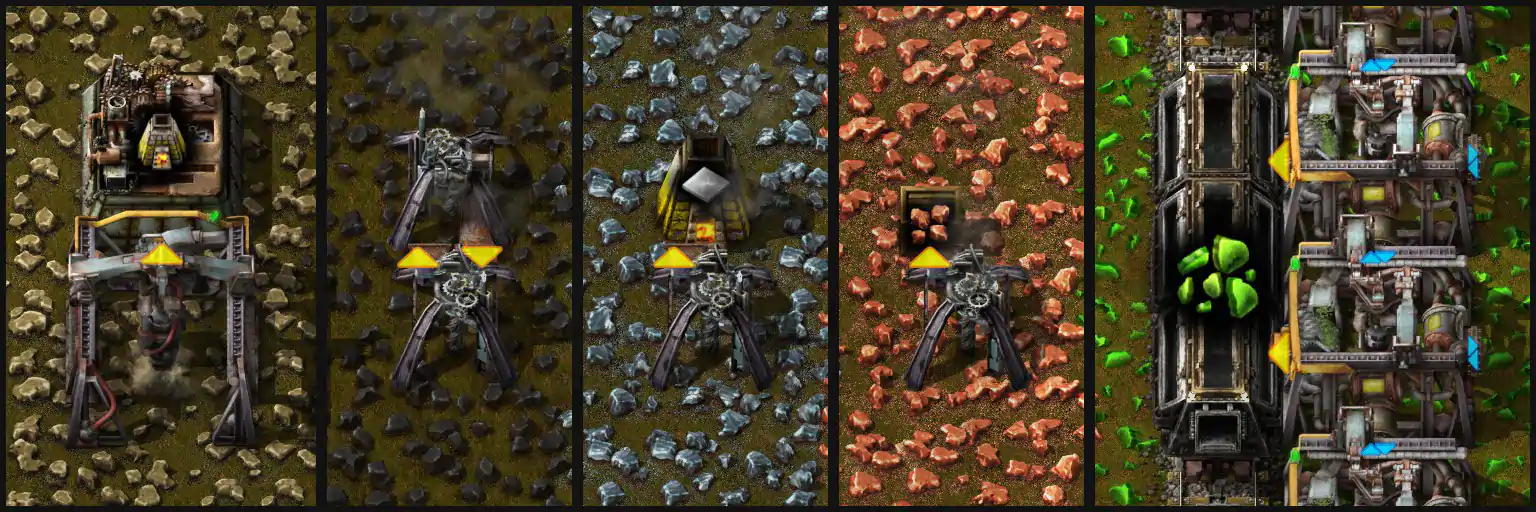
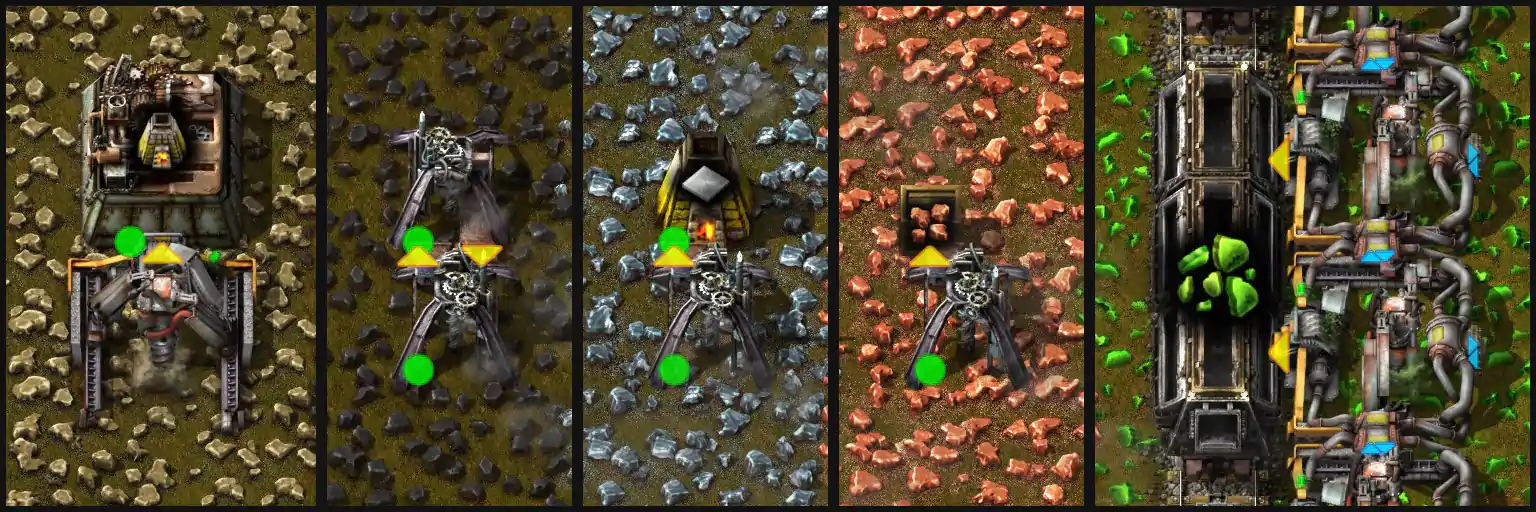
Various Updates (#263)
* Closes #240 Update miner image
* Add ids to headings
* Oil sheet: add refineries per pipeline
* Update Discord link
* Train Colors fix space science, add blueprint
* Move blueprint copier to own component
* Update Factorio version
* Update Font Awesome version

diff --git a/src/app/views/cheat-sheets/balancers/balancers.component.ts b/src/app/views/cheat-sheets/balancers/balancers.component.ts
@@ -1,15 +1,8 @@
 // Angular Imports
 import { Component, OnInit } from '@angular/core';
-import { HttpClient } from '@angular/common/http';
-
-// RXJS
-import { forkJoin } from 'rxjs';
-
-// UI
-import { NgbTooltip } from '@ng-bootstrap/ng-bootstrap';
 
 // Services
-import { DataService, ClipboardService } from 'app/services/index';
+import { DataService } from 'app/services/index';
 
 // Models
 import { Data } from 'app/services/data.model';
@@ -20,8 +13,6 @@ import { BalancerData } from 'app/definitions/Balancers';
 import { APP_SETTINGS } from 'app/shared/app-settings';
 
 const dataFile = 'balancers';
-const tooltip_Default = 'Click to copy Blueprint';
-const tooltip_Copied = 'BP String Copied';
 
 @Component({
     selector: 'app-balancers',
@@ -31,17 +22,10 @@ const tooltip_Copied = 'BP String Copied';
 export class BalancersComponent implements OnInit {
     public cheatSheet: CheatSheet;
     public sheetData: BalancerData;
-
-    /** Tooltip for copying blueprint book */
-    public tooltipMsg = tooltip_Default;
-    /** Holds the blueprint strings for user to copy */
-    public blueprintStrings: string[] = [];
     public APP_SETTINGS = APP_SETTINGS;
 
     constructor(
-        public dataService: DataService,
-        private httpClientService: HttpClient,
-        public clipboardService: ClipboardService,
+        private dataService: DataService,
     ) { }
 
     ngOnInit() {
@@ -49,7 +33,6 @@ export class BalancersComponent implements OnInit {
             (result: Data) => {
                 this.cheatSheet = result.cheatSheet;
                 this.sheetData = result.data;
-                this.processBlueprints();
             },
             error => {
                 console.log(error);
@@ -57,67 +40,4 @@ export class BalancersComponent implements OnInit {
         );
     }
 
-    /**
-     * Get Blueprint strings from the urls
-     * Populate the tooltip array with default string
-     */
-    private async processBlueprints() {
-        this.tooltipMsg = tooltip_Default;
-        const blueprintStreams = [];
-
-        this.sheetData.commonBalancers.forEach(blueprint => {
-            blueprintStreams.push(this.httpClientService.get(blueprint.raw, { responseType: 'text' }));
-        });
-
-        // Common links
-        forkJoin(blueprintStreams).subscribe(
-            (response: string[]) => {
-                this.blueprintStrings = response;
-            },
-            error => {
-                console.log(error);
-            }
-        );
-
-        // await this.testBPMatch();
-    }
-
-    /**
-     * Resets the tooltip message to the default and close after a timeout
-     * @param tooltip NgbTooltip object to operate on
-     */
-    private resetTooltip(tooltip: NgbTooltip): void {
-        setTimeout(() => {
-            this.tooltipMsg = tooltip_Default;
-            tooltip.close();
-            console.log(this.tooltipMsg);
-        }, 2000);
-    }
-
-    /**
-     * Copies Blueprint to clipboard
-     * @param url Link that contains the BP text
-     * @param tooltip NgbTooltip object to operate on
-     */
-    public copyBpString(url: string, tooltip: NgbTooltip): void {
-        this.clipboardService.copyMessageExec(url);
-        this.tooltipMsg = tooltip_Copied;
-        this.resetTooltip(tooltip);
-    }
-
-
-    /** Quick test to compare the order of the bp strings in the array */
-    private testBPMatch() {
-        let i = 0;
-        this.sheetData.commonBalancers.forEach(blueprintBook => {
-            const j = i;
-            this.httpClientService.get(blueprintBook.raw, { responseType: 'text' }).subscribe(
-                (response) => {
-                    if (response === this.blueprintStrings[j]) { console.log(j + ' match'); }
-                    else { console.log(j + ' NOT match'); }
-                }
-            );
-            i++;
-        });
-    }
 }

diff --git a/src/app/shared/blueprint-clipboard/blueprint-clipboard.component.ts b/src/app/shared/blueprint-clipboard/blueprint-clipboard.component.ts
@@ -1,0 +1,79 @@
+// Angular Imports
+import { Component, OnInit, Input } from '@angular/core';
+import { HttpClient } from '@angular/common/http';
+
+// UI
+import { NgbTooltip } from '@ng-bootstrap/ng-bootstrap';
+
+// Services
+import { ClipboardService } from 'app/services/index';
+
+const tooltip_Default = 'Click to copy Blueprint';
+const tooltip_Copied = 'BP String Copied';
+@Component({
+    selector: 'app-blueprint-clipboard',
+    templateUrl: './blueprint-clipboard.component.html',
+    // styleUrls: ['./blueprint-clipboard.component.scss']
+})
+export class BlueprintClipboardComponent {
+    @Input()
+    public set url(url: string) {
+        if (url) {
+            this._url = url;
+            this.processBlueprint();
+        }
+    }
+    public get url(): string { return this._url; }
+    private _url = '';
+
+    /** Tooltip for copying blueprint book */
+    public tooltipMsg = tooltip_Default;
+    /** Holds the blueprint strings for user to copy */
+    public blueprintString: string;
+
+    constructor(
+        private httpClientService: HttpClient,
+        public clipboardService: ClipboardService,
+    ) { }
+
+    /**
+     * Get Blueprint string from the url
+     * Populate the tooltip array with default string
+     */
+    private async processBlueprint() {
+        this.tooltipMsg = tooltip_Default;
+        const blueprintStreams = [];
+        if (!this.url) { throw Error('Empty url'); }
+        this.httpClientService.get(this.url, { responseType: 'text' }).subscribe(
+            (response: string) => {
+                this.blueprintString = response;
+            },
+            error => {
+                console.log(error);
+            }
+        );
+    }
+
+    /**
+     * Resets the tooltip message to the default and close after a timeout
+     * @param tooltip NgbTooltip object to operate on
+     */
+    private resetTooltip(tooltip: NgbTooltip): void {
+        setTimeout(() => {
+            this.tooltipMsg = tooltip_Default;
+            tooltip.close();
+            console.log(this.tooltipMsg);
+        }, 2000);
+    }
+
+    /**
+     * Copies Blueprint to clipboard
+     * @param url Link that contains the BP text
+     * @param tooltip NgbTooltip object to operate on
+     */
+    public copyBpString(blueprintString: string, tooltip: NgbTooltip): void {
+        this.clipboardService.copyMessageExec(blueprintString);
+        this.tooltipMsg = tooltip_Copied;
+        this.resetTooltip(tooltip);
+    }
+}

diff --git a/src/app/views/cheat-sheets/oil-refining/oil-refining.component.html b/src/app/views/cheat-sheets/oil-refining/oil-refining.component.html
@@ -67,8 +67,23 @@
     </p>
     <p>
         This <a href="https://www.youtube.com/watch?v=wbscDTocZBk">Video</a>
-        for 0.16 version that explains the calculations in detail.
+        for 0.16 version that explains the setup and calculations in detail.
         Ratios changed but the concept and build style are still relevant.
+    </p>
+
+    <p>
+
+        You can supply
+        <a href="https://kirkmcdonald.github.io/calc.html#data=0-17-60&rate=s&min=4&items=petroleum-gas:f:106&modules=advanced-oil-processing:;null:10,heavy-oil-cracking:;null:8,light-oil-cracking:;null:8" target="_blank" rel="noopener">
+            ~106 refineries
+        </a> + respective cracking from 1 pipeline at
+        <a href="#fluid-flow-and-pipe-length">1200 oil/s</a>.
+        <br>
+        You can supply
+        <a href="https://kirkmcdonald.github.io/calc.html#zip=fcpLCsMgEADQ27jKgIkhBcscZtCpkfrDMYHcvtDsuii85fM0CDXMD9i06jQYReVYcFVxcBZsPHpNfGQIJPZlF6Ny9UdiQfInFcceakzQenUsEkuwzdyeYuyip53pvL7HdXLv3zFvU4phH//GBw==" target="_blank" rel="noopener">
+            ~23 moduled refineries
+        </a> + respective cracking from 1 pipeline at
+        <a href="#fluid-flow-and-pipe-length">1200 oil/s</a>.
     </p>
 
     <div class="row align-items-center">
@@ -206,13 +221,13 @@
             spreadsheet for Factorio v0.15
         </a> from Reddit; but
         <a href="https://docs.google.com/spreadsheets/d/1AVGjAeokJ6_GFIZqEacsyCxCRzgM1s0bOTwmPn3Ldxo/edit?usp=sharing" target="_blank" rel="noopener">
-            modified to use v0.17
+            modified to use v{{APP_SETTINGS.data_version}}
         </a>
         recipe data with 1.3 productivity and
         5.55 craft speed for Refineries (10 beacons) and
         5 craft speed for Chemical Plants (8 beacons).
         <br>
-        Caution: If you use the original spreadsheet as is, it will not produce correct results for version 0.17.
+        Caution: If you use the original spreadsheet as is, it will not produce correct results for version v{{APP_SETTINGS.data_version}}.
         You would need to make the
         <a href="https://docs.google.com/spreadsheets/d/1AVGjAeokJ6_GFIZqEacsyCxCRzgM1s0bOTwmPn3Ldxo/edit?usp=sharing" target="_blank" rel="noopener">
             same modifications

diff --git a/src/app/views/cheat-sheets/balancers/balancers.component.html b/src/app/views/cheat-sheets/balancers/balancers.component.html
@@ -39,18 +39,9 @@
                 </li>
                 <li>
                     Balancers can still be useful regardless; most common are the
-                    <ng-template #tipContent>{{tooltipMsg}}</ng-template>
-                    <button class="btn btn-link txt-factorio-blue" (click)="copyBpString(blueprintStrings[0], tooltip)"
-                        [ngbTooltip]="tipContent" #tooltip="ngbTooltip" triggers="hover"
-                        [autoClose]="false" [disabled]="!sheetData?.commonBalancers[0].raw">
-                        <i class="fas fa-book"></i>
-                    </button>
+                    <app-blueprint-clipboard [url]="sheetData?.commonBalancers[0].raw"></app-blueprint-clipboard>
                     <a href="{{sheetData?.commonBalancers[0].url}}" target="_blank" rel="noopener">4<i class="fas fa-long-arrow-alt-right"></i>4</a> and
-                    <button class="btn btn-link txt-factorio-blue" (click)="copyBpString(blueprintStrings[1], tooltip)"
-                        [ngbTooltip]="tipContent" #tooltip="ngbTooltip" triggers="hover"
-                        [autoClose]="false" [disabled]="!sheetData?.commonBalancers[1].raw">
-                        <i class="fas fa-book"></i>
-                    </button>
+                    <app-blueprint-clipboard [url]="sheetData?.commonBalancers[1].raw"></app-blueprint-clipboard>
                     <a href="{{sheetData?.commonBalancers[1].url}}" target="_blank" rel="noopener">8<i class="fas fa-long-arrow-alt-right"></i>8</a> throughput unlimited.
                 </li>
                 <li>

diff --git a/src/app/views/cheat-sheets/nuclear-power/nuclear-power.component.html b/src/app/views/cheat-sheets/nuclear-power/nuclear-power.component.html
@@ -89,7 +89,7 @@
     </div>
 
     <hr>
-    <h4 class="card-title">SRE Diagrams</h4>
+    <h4 class="card-title" id="nuclear-sre-diagrams">SRE Diagrams</h4>
     <strong>Single Reactor Equivalence:</strong> Because of the neighbor bonus; 1 reactor can be equivalent to up to 5 reactors in certain patterns.
     <div class="row">
         <div class="col-12 col-md-6">
@@ -198,7 +198,7 @@
 
     <hr>
 
-    <h4 class="card-title">Formulas</h4>
+    <h4 class="card-title" id="nuclear-formulas">Formulas</h4>
     <p>
         See <a href="https://www.reddit.com/r/factorio/comments/67xgge/nuclear_ratios/" target="_blank" rel="noopener">Nuclear Ratios</a> Post
         and, <a href="https://wiki.factorio.com/Tutorial:Nuclear_power" target="_blank" rel="noopener">Nuclear Guide</a> Wiki

diff --git a/src/index.html b/src/index.html
@@ -64,8 +64,8 @@
 
     <!-- Fonts -->
     <link href="https://fonts.googleapis.com/css2?family=Jura:wght@400;700&family=Play:wght@400;700&display=swap" rel="stylesheet">
-    <link rel="stylesheet" href="https://use.fontawesome.com/releases/v5.7.2/css/all.css"
-        integrity="sha384-fnmOCqbTlWIlj8LyTjo7mOUStjsKC4pOpQbqyi7RrhN7udi9RwhKkMHpvLbHG9Sr" crossorigin="anonymous">
+    <link rel="stylesheet" href="https://use.fontawesome.com/releases/v5.14.0/css/all.css"
+        integrity="sha384-HzLeBuhoNPvSl5KYnjx0BT+WB0QEEqLprO+NBkkk5gbc67FTaL7XIGa2w1L0Xbgc" crossorigin="anonymous">
 
     <!-- Global Site Tag (gtag.js) - Google Analytics -->
     <script async="" src="https://www.googletagmanager.com/gtag/js?id=UA-28080172-9"></script>

diff --git a/src/app/views/cheat-sheets/basic-power/basic-power.component.html b/src/app/views/cheat-sheets/basic-power/basic-power.component.html
@@ -38,7 +38,7 @@
 
     <hr>
 
-    <h4 class="card-title">Steam Power</h4>
+    <h4 class="card-title" id="steam-power">Steam Power</h4>
     <ul>
         <li>
             An <a href="https://wiki.factorio.com/Offshore_pump" target="_blank" rel="noopener">offshore pump</a>
@@ -106,7 +106,7 @@
         <kbd>Boilers supported by belt of fuel = Belt Throughput(i/s) * Fuel Energy(MJ) / {{ sheetData?.steam_boiler_energy }}</kbd>
     </p>
 
-    <h4 class="card-title">Solar Power</h4>
+    <h4 class="card-title" id="solar-power">Solar Power</h4>
     <ul>
         <li>
             <a href="https://wiki.factorio.com/Solar_panel" target="_blank" rel="noopener">Solar panels</a>

diff --git a/src/app/views/overview/overview.component.html b/src/app/views/overview/overview.component.html
@@ -54,7 +54,7 @@
                     <a href="https://github.com/deniszholob/factorio-cheat-sheet/issues" target="_blank" rel="noopener">
                         Github
                     </a>,
-                    <a href="https://discord.gg/hmwb3dB" target="_blank" rel="noopener">Discord</a>, or
+                    <a href="https://discord.gg/PkyzXzz" target="_blank" rel="noopener">Discord</a>, or
                     <a href="https://www.reddit.com/r/factorio/comments/avp7c8/factorio_cheat_sheet_updated_to_v017/"
                         target="_blank" rel="noopener">
                         Reddit

diff --git a/src/app/views/cheat-sheets/material-processing/material-processing.component.html b/src/app/views/cheat-sheets/material-processing/material-processing.component.html
@@ -81,7 +81,7 @@
 
     <hr>
 
-    <h4 class="card-title">Smelting Facts</h4>
+    <h4 class="card-title" id="smelting-facts">Smelting Facts</h4>
     <div class="row align-items-center">
         <div class="col-12 col-lg-7 col-print-7">
             <ul>
@@ -132,7 +132,7 @@
     </div>
 
 
-    <h4 class="card-title">Uranium Facts</h4>
+    <h4 class="card-title" id="uranium-facts">Uranium Facts</h4>
     <div class="row align-items-center">
         <div class="col-12 col-lg-7 col-print-7">
             <ul>

diff --git a/src/app/views/cheat-sheets/fluid-wagon-transfer/fluid-wagon-transfer.component.html b/src/app/views/cheat-sheets/fluid-wagon-transfer/fluid-wagon-transfer.component.html
@@ -87,7 +87,7 @@
 
     <div class="row justify-content-around">
         <div class="col-12 col-lg-8">
-            <h4 class="card-title">Fluid Flow and Pipe Length</h4>
+            <h4 class="card-title" id="fluid-flow-and-pipe-length">Fluid Flow and Pipe Length</h4>
             <ul>
                 <li>Best pipe length is ~ 0-20 to keep healthy fluid flow</li>
                 <li>Experimental data shows 1200 fluid/s through 16 pipes</li>

diff --git a/src/app/views/cheat-sheets/train-colors/train-colors.component.html b/src/app/views/cheat-sheets/train-colors/train-colors.component.html
@@ -2,6 +2,7 @@
 
     <table class="table table-sm table-hover fixed-width">
         <caption class="text-center">
+            <app-blueprint-clipboard [url]="sheetData?.blueprint"></app-blueprint-clipboard>
             Suggested locomotive colors based on cargo
             <br> Also see
             <a href="https://mods.factorio.com/mod/Automatic_Train_Painter" target="_blank" rel="noopener">

diff --git a/src/app/app.module.ts b/src/app/app.module.ts
@@ -48,6 +48,7 @@ import * as SheetComponents from 'app/views/cheat-sheets';
         ViewComponents.MainComponent,
         ViewComponents.AnnexComponent,
         ViewComponents.FooterComponent,
+        SharedComponents.BlueprintClipboardComponent,
         SharedComponents.CheatSheetComponent,
         SharedComponents.FactorioIconComponent,
         SheetComponents.BalancersComponent,
